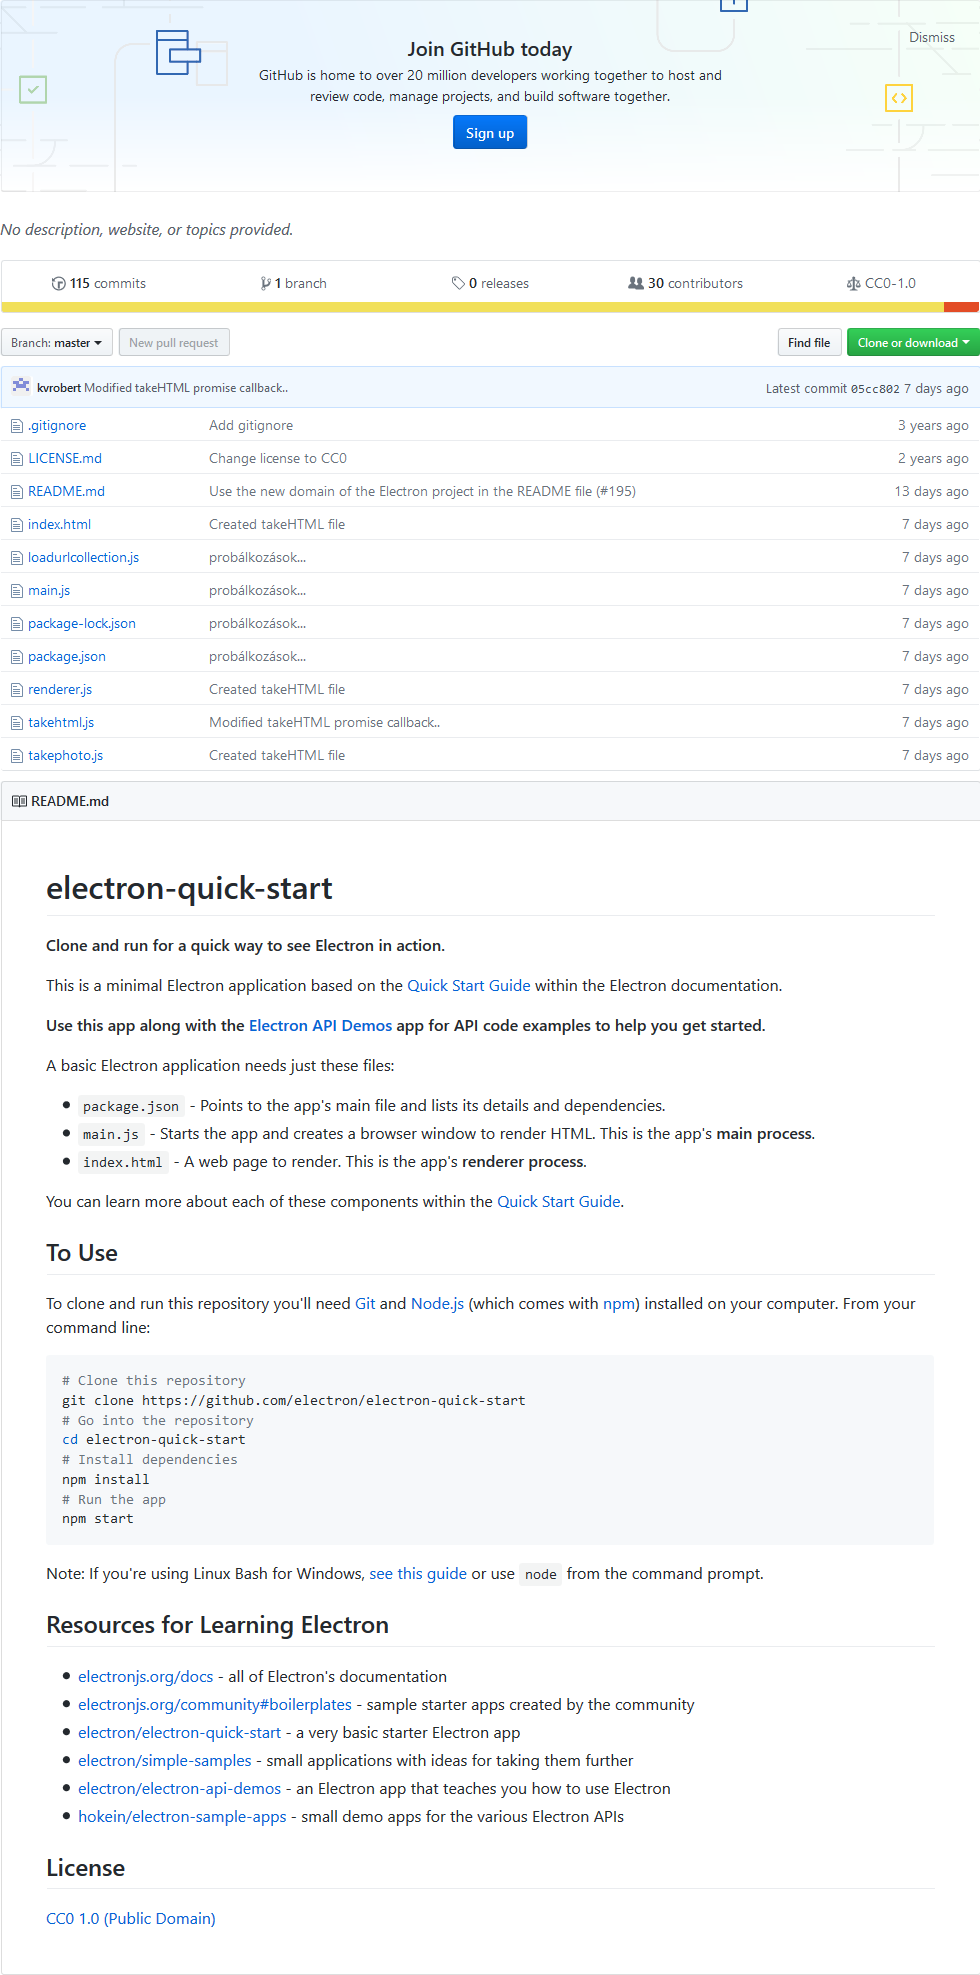
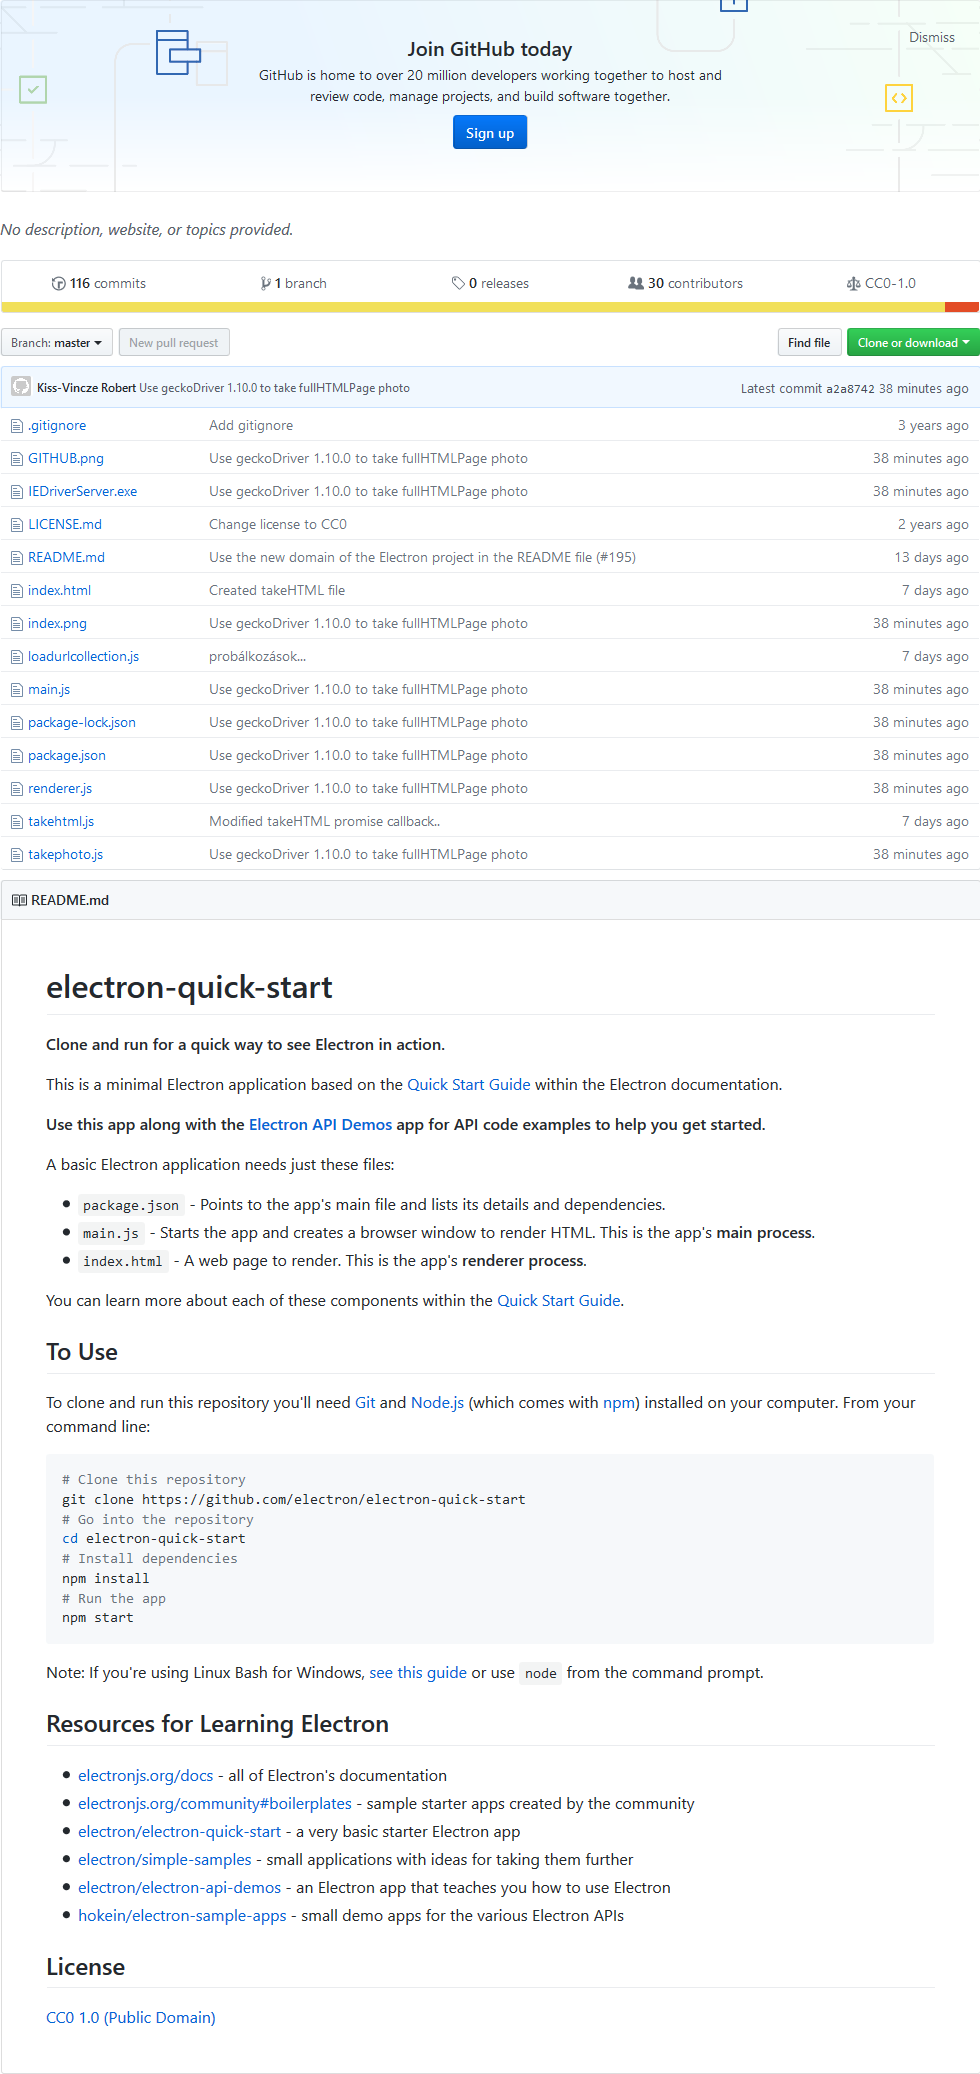
Added command shell usage to running ng serve...

diff --git a/main.js b/main.js
@@ -14,7 +14,7 @@ let mainWindow
 function createWindow () {
   // Create the browser window.
   mainWindow = new BrowserWindow({width: 800, height: 600})
-
+  
   // and load the index.html of the app.
     mainWindow.loadURL(url.format({
     pathname: path.join(__dirname, 'index.html'),
@@ -24,9 +24,9 @@ function createWindow () {
 
   // Open the DevTools.
    mainWindow.webContents.openDevTools()
-
+   electron.shell.openItem("c:\\Users\\Tester1\\Documents\\NetBeansProjects\\testPhoto\\electron_selenium\\asset\\setting.bat");
   // Emitted when the window is closed.
-  mainWindow.on('closed', function () {
+    mainWindow.on('closed', function () {
     // Dereference the window object, usually you would store windows
     // in an array if your app supports multi windows, this is the time
     // when you should delete the corresponding element.

diff --git a/renderer.js b/renderer.js
@@ -16,9 +16,8 @@ while( !isAuthenticated() ){
     setInterval( () => webCapturer.auth(), 2000 );    
 }*/
 
-webCapturer.takePhoto( "https://github.com/kvrobert/electron_selenium", "GITHUB.png", function(){ 
-                                                        console.log("Origo Ready");
-                                                        webCapturer.close(); } );
+//webCapturer.takePhoto( "https://github.com/kvrobert/electron_selenium", "GITHUB.png", function(){ console.log("Origo Ready"); webCapturer.close(); } );
+webCapturer.takePhoto( "http://www.origo.hu/index.html", "index.png", function(){ console.log("Origo Ready"); webCapturer.close(); } );
 
 /*//webCapturer.takePhoto( "http://10.41.96.135/status/NE_Overview", "node.png", function(){ console.log("NODE Capture HTML Ready"); } );
 

diff --git a/takephoto.js b/takephoto.js
@@ -77,7 +77,10 @@ function WebCapturer()
         //    driver.ta
         //    driver.findElement().t
            // driver.findElement( by.xpath("//*[(@id = 'js-repo-pjax-container')]") ).takeScreenshot(true).then( ( data ) => {
-            driver.findElement( by.xpath("//*[contains(@class, 'repository-content')]") ).takeScreenshot(true).then( ( data ) => {
+           
+
+         //  driver.executeScript("document.getElementsByClassName('repository-content ')[0].style.display='none'");
+           driver.findElement( by.xpath("//*[@id='main']") ).takeScreenshot(false).then( ( data ) => {
                     fs.writeFileSync( next.file, data, 'base64' );
                     if(next.callBack) next.callBack();
                     ready = true;
